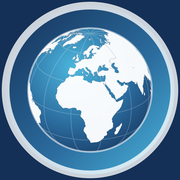
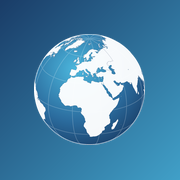
Android-appicoon: volledig vierkant maskable icoon, rond icoon en manifest (nog niet gepusht)
Claude-Session: https://claude.ai/code/session_01SQAjUGwwN9EJaz5ZyxYNYL

diff --git a/index.html b/index.html
@@ -4,6 +4,7 @@
 <meta name="theme-color" content="#143057">
 <meta name="description" content="Leer de wereld kennen! Werelddelen, wateren en gebergtes op een draaiende wereldbol. Een app van Meester Roy.">
 <link rel="icon" type="image/png" href="icon-64.png">
+<link rel="manifest" href="manifest.webmanifest">
 <link rel="apple-touch-icon" href="apple-touch-icon.png">
 <meta property="og:type" content="website">
 <meta property="og:site_name" content="Topo Trainer: De Wereld">
